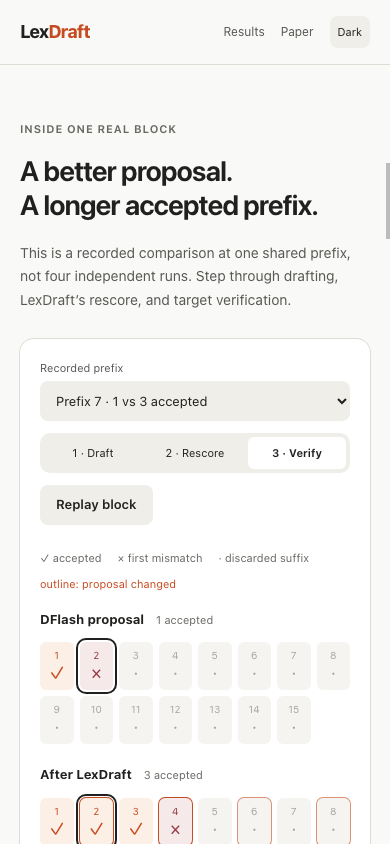
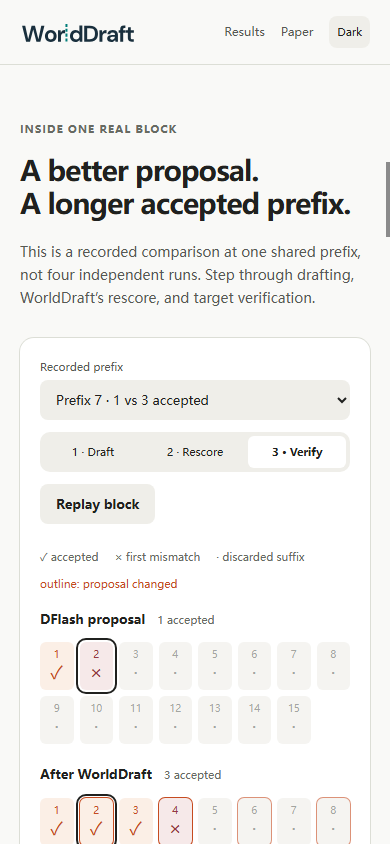
Publish the WorldDraft identity, project links and MIT license

diff --git a/index.html b/index.html
@@ -3,9 +3,9 @@
 <head>
   <meta charset="utf-8">
   <meta name="viewport" content="width=device-width, initial-scale=1">
-  <meta name="description" content="LexDraft uses a lightweight within-word prior to improve multilingual parallel drafting. Measured throughput gains, unchanged target verification, and real decoding traces.">
-  <title>LexDraft | Explore four systems, then inspect a real block.</title>
-  <link rel="icon" href="data:,">
+  <meta name="description" content="WorldDraft uses a lightweight within-word prior to improve multilingual parallel drafting. Measured throughput gains, unchanged target verification, and real decoding traces.">
+  <title>WorldDraft | Explore four systems, then inspect a real block.</title>
+  <link rel="icon" type="image/svg+xml" href="assets/brand/favicon.svg">
   <link rel="stylesheet" href="assets/tokens.css">
   <link rel="stylesheet" href="assets/style.css">
   <script src="assets/data.js" defer></script>
@@ -18,7 +18,7 @@
 <a class="skip" href="#main">Skip to content</a>
 <header class="topbar">
   <div class="wrap nav-row">
-    <a class="brand" href="#main" aria-label="LexDraft home">Lex<span>Draft</span><span class="brand-dot" aria-hidden="true"></span></a>
+    <a class="brand" href="#main" aria-label="WorldDraft home"><span class="brand-lockup" aria-hidden="true"></span></a>
     <nav aria-label="Main navigation">
       <a href="#demo">See it work</a>
       <a href="#results">Results</a>
@@ -29,8 +29,8 @@
 </header>
 <main id="main">
   <section class="wrap interactive-intro" aria-labelledby="hero-title">
-    <div><p class="eyebrow">LexDraft · interactive comparison</p><h1 id="hero-title">Same work.<br><span>Four ways to finish.</span></h1></div>
-    <div><p class="hero-description">See what LexDraft changes, before and after multilingual training. Start all four systems together. Then look inside an actual draft block.</p><a class="text-link" href="#block-demo">Why does it work? ↓</a></div>
+    <div><p class="eyebrow">WorldDraft · interactive comparison</p><h1 id="hero-title">Same work.<br><span>Four ways to finish.</span></h1></div>
+    <div><p class="hero-description">See what WorldDraft changes, before and after multilingual training. Start all four systems together. Then look inside an actual draft block.</p><a class="text-link" href="#block-demo">Why does it work? ↓</a></div>
   </section>
 
   <section class="wrap interactive-main" id="demo" aria-labelledby="race-title">
@@ -51,20 +51,20 @@
     <div class="checkpoints" aria-label="Jump to a finish moment">
       <span>Jump to:</span>
       <button class="button subtle" type="button" id="jump-combined">Combined finishes</button>
-      <button class="button subtle" type="button" id="jump-prior">Original + LexDraft finishes</button>
+      <button class="button subtle" type="button" id="jump-prior">Original + WorldDraft finishes</button>
       <button class="button subtle" type="button" id="jump-all">All finish</button>
     </div>
     <div class="race-scale"><span>Four systems, always visible</span><span>Share of equal work completed</span><span>Finish time</span></div>
     <div id="live-lanes" class="live-lanes"></div>
     <div class="live-insight" id="race-insight" role="status"></div>
     <div class="paired-impact" id="race-impact"></div>
-    <p class="caption lab-source">Each lane advances at its measured throughput ratio. Equal work is an abstract unit, not a generated answer. Paired percentages isolate LexDraft; combined performance includes multilingual training. Qwen3-8B · vLLM · L20.</p>
+    <p class="caption lab-source">Each lane advances at its measured throughput ratio. Equal work is an abstract unit, not a generated answer. Paired percentages isolate WorldDraft; combined performance includes multilingual training. Qwen3-8B · vLLM · L20.</p>
   </section>
 
   <section class="section wrap block-section" id="block-demo" aria-labelledby="block-title">
     <div class="section-heading">
       <div><p class="eyebrow">Inside one real block</p><h2 id="block-title">A better proposal.<br>A longer accepted prefix.</h2></div>
-      <p>This is a recorded comparison at one shared prefix, not four independent runs. Step through drafting, LexDraft’s rescore, and target verification.</p>
+      <p>This is a recorded comparison at one shared prefix, not four independent runs. Step through drafting, WorldDraft’s rescore, and target verification.</p>
     </div>
     <div class="block-lab">
       <div class="block-controls">
@@ -96,7 +96,7 @@
   <section class="section" id="trace-detail" aria-labelledby="demo-title">
     <div class="section-heading">
       <div><p class="eyebrow">The difference, up close</p><h2 id="demo-title">Finish the same answer.<br>In fewer rounds.</h2></div>
-      <p>One real Telugu request. Both runs produce the exact same 512 tokens. LexDraft finishes in 160 rounds instead of 170.</p>
+      <p>One real Telugu request. Both runs produce the exact same 512 tokens. WorldDraft finishes in 160 rounds instead of 170.</p>
     </div>
     <div class="trace-panel">
       <div class="trace-top">
@@ -111,11 +111,11 @@
             <p class="lane-foot"><span id="base-rounds">160 rounds used</span><span id="base-status">Still decoding</span></p>
           </div>
           <div class="trace-lane">
-            <div class="lane-label"><span><i class="swatch lex"></i>With LexDraft</span><strong id="lex-tokens">512 / 512 tokens</strong></div>
-            <div class="progress" id="lex-progress" role="progressbar" aria-label="LexDraft output progress" aria-valuemin="0" aria-valuemax="512" aria-valuenow="512"><div id="lex-fill" class="fill lex"></div></div>
+            <div class="lane-label"><span><i class="swatch lex"></i>With WorldDraft</span><strong id="lex-tokens">512 / 512 tokens</strong></div>
+            <div class="progress" id="lex-progress" role="progressbar" aria-label="WorldDraft output progress" aria-valuemin="0" aria-valuemax="512" aria-valuenow="512"><div id="lex-fill" class="fill lex"></div></div>
             <p class="lane-foot"><span id="lex-rounds">160 rounds used</span><span id="lex-status">Finished</span></p>
           </div>
-          <div class="trace-message" id="trace-message" role="status">LexDraft has finished. The original drafter still has 31 tokens to go.</div>
+          <div class="trace-message" id="trace-message" role="status">WorldDraft has finished. The original drafter still has 31 tokens to go.</div>
         </div>
         <div class="trace-overview">
           <h3>The complete run</h3>
@@ -134,7 +134,7 @@
       <div><p class="eyebrow">Why it works</p><h3>Let the model choose the words.<br>Help it finish their pieces.</h3></div>
       <div class="mechanism-copy">
         <p>Parallel drafting leaves later positions without the earlier draft pieces. That matters when a word spans many tokens.</p>
-        <p>LexDraft adds word-continuation counts to candidate scoring. It reranks and expands proposals within a word; the target still decides what gets accepted.</p>
+        <p>WorldDraft adds word-continuation counts to candidate scoring. It reranks and expands proposals within a word; the target still decides what gets accepted.</p>
         <details class="inline-details"><summary>Read the scoring rule</summary><div class="detail-content"><code>score(x) = log q(x) + λ · log P(x | word prefix)</code><p>A simplified view of the rule. Candidates include the drafter’s top 16 and the prior’s top 4 continuations. The full rule also scores word endings. Setting λ to zero restores the original drafter.</p><p>The replay above shows committed-token counts, not rejected proposals or pure-prior probabilities. No missing candidate trace is reconstructed.</p></div></details>
       </div>
     </div>
@@ -149,24 +149,24 @@
       </div>
       <details class="evidence static-summary"><summary>Selected four-system measurements</summary><div class="detail-content"><div class="hero-chart" aria-labelledby="comparison-title">
       <div class="chart-top">
-        <div><p class="eyebrow">Four systems. Two matched pairs.</p><h2 id="comparison-title">LexDraft helps both drafters.</h2></div>
+        <div><p class="eyebrow">Four systems. Two matched pairs.</p><h2 id="comparison-title">WorldDraft helps both drafters.</h2></div>
       </div>
-      <p class="comparison-key">Original DFlash uses no extra multilingual training.<br>Multilingual DFlash adds that training. Both are shown with and without LexDraft.</p>
+      <p class="comparison-key">Original DFlash uses no extra multilingual training.<br>Multilingual DFlash adds that training. Both are shown with and without WorldDraft.</p>
       <div id="hero-bars" class="featured-bars"></div>
       <p class="chart-caption">Throughput relative to original DFlash = 1.00× for each language. Fixed 0 to 2.5× scale.</p>
-      <p class="attribution-note">Paired percentages show the LexDraft increment on each drafter. The combined ratio includes both training and LexDraft.</p>
+      <p class="attribution-note">Paired percentages show the WorldDraft increment on each drafter. The combined ratio includes both training and WorldDraft.</p>
       <div class="chart-source"><span>Qwen3-8B · vLLM · NVIDIA L20 · concurrency 1</span><a href="#results">All 18 conditions ↗</a></div>
     </div></div></details>
       <div class="results-controls">
         <label>Concurrency<select id="concurrency"><option value="1">1 request</option><option value="8">8 requests</option><option value="32">32 requests</option></select></label>
         <p>Original DFlash = 1.00× for every condition<br><span class="muted">Greedy decoding · Qwen3-8B · L20</span></p>
       </div>
-      <p class="result-key">Fixed order: original DFlash, original + LexDraft, multilingual DFlash, multilingual + LexDraft. The gap within each pair isolates the prior’s contribution.</p>
+      <p class="result-key">Fixed order: original DFlash, original + WorldDraft, multilingual DFlash, multilingual + WorldDraft. The gap within each pair isolates the prior’s contribution.</p>
       <div id="results-bars" class="results-bars"></div>
-      <p class="caption">All ratios use the original DFlash at the same concurrency as denominator. The combined result includes training and LexDraft. Values are computed from exported, two-decimal speedups; small differences from paper percentages are rounding.</p>
+      <p class="caption">All ratios use the original DFlash at the same concurrency as denominator. The combined result includes training and WorldDraft. Values are computed from exported, two-decimal speedups; small differences from paper percentages are rounding.</p>
       <details class="evidence" id="engine-details">
         <summary><span>Inspect the full engine table</span><span class="summary-note">Training-only control, other baselines and prior increments</span></summary>
-        <div class="detail-content"><div class="table-scroll" tabindex="0" role="region" aria-label="Full engine results"><table id="engine-table"></table></div><p class="caption">All four systems are already shown above; this table adds other baselines and acceptance lengths. Speedups here are over plain target decoding, not original DFlash; mean committed tokens per round appear in parentheses. The last two columns isolate the LexDraft increment on each matched drafter.</p><a class="text-link" href="data/speed.json" download>Download engine data ↗</a></div>
+        <div class="detail-content"><div class="table-scroll" tabindex="0" role="region" aria-label="Full engine results"><table id="engine-table"></table></div><p class="caption">All four systems are already shown above; this table adds other baselines and acceptance lengths. Speedups here are over plain target decoding, not original DFlash; mean committed tokens per round appear in parentheses. The last two columns isolate the WorldDraft increment on each matched drafter.</p><a class="text-link" href="data/speed.json" download>Download engine data ↗</a></div>
       </details>
       <details class="evidence" id="loop-details">
         <summary><span>Inspect the second target family</span><span class="summary-note">Qwen and Llama speculative-loop results</span></summary>
@@ -190,7 +190,7 @@
       <summary><span>Where the evidence stops</span><span class="summary-note">Hardware, sampling and evaluation scope</span></summary>
       <div class="detail-content limits">
         <p><strong>Serving scope.</strong> Engine results use Qwen3-8B on a single NVIDIA L20. Llama evidence comes from replay and speculative-loop measurements, not the serving engine.</p>
-        <p><strong>Not a universal winner.</strong> Gains depend on language, drafter and concurrency. English changes little. At concurrency 32, the AR drafter leads the compared LexDraft variants in Telugu and Bengali.</p>
+        <p><strong>Not a universal winner.</strong> Gains depend on language, drafter and concurrency. English changes little. At concurrency 32, the AR drafter leads the compared WorldDraft variants in Telugu and Bengali.</p>
         <p><strong>Sampling and quality.</strong> The serving sweep is greedy. Sampling is evaluated using loop and target-NLL checks, not an engine sweep. Speed uses a 512-token cap; MGSM accuracy uses 2,048 tokens. <a href="data/quality.json" download>Quality data ↗</a></p>
         <p><strong>Prior coverage.</strong> Romanized Hindi has no matched prior text, so its prior is off. Word boundaries depend on the tokenizer and segmenter.</p>
       </div>
@@ -203,11 +203,11 @@
       <div class="paper-info">
         <p class="authors">Yuannuo Feng<sup>1</sup>, Wenshuai Yao<sup>2</sup>, Yizhe Chen<sup>1</sup>, Ngai Wong<sup>3</sup>, Wenyong Zhou<sup>3</sup>, Wang Kang<sup>1</sup></p>
         <p class="affiliations"><sup>1</sup> Beihang University<br><sup>2</sup> Peking University<br><sup>3</sup> The University of Hong Kong</p>
-        <p class="caption">Paper, code and count tables will be linked when publicly released. The author profile below is not a code repository.</p>
-        <a class="text-link" href="https://github.com/Kissmetothemoon" target="_blank" rel="noopener noreferrer">Author’s GitHub ↗</a>
+        <p class="caption">The code repository includes the within-word prior, benchmarking scripts and measured results.</p>
+        <a class="text-link" href="https://github.com/Kissmetothemoon/WorldDraft" target="_blank" rel="noopener noreferrer">Source code ↗</a>
       </div>
     </div>
-    <div class="wrap"><details class="evidence citation"><summary>Cite this work</summary><div class="detail-content"><div class="copy-row"><button type="button" class="button secondary" id="copy-bib">Copy BibTeX</button><span id="copy-status" role="status"></span></div><pre id="bib">@misc{lexdraft2026,
+    <div class="wrap"><details class="evidence citation"><summary>Cite this work</summary><div class="detail-content"><div class="copy-row"><button type="button" class="button secondary" id="copy-bib">Copy BibTeX</button><span id="copy-status" role="status"></span></div><pre id="bib">@misc{worlddraft2026,
   title = {What Slows Parallel Diffusion Drafters Across Languages?},
   author = {Feng, Yuannuo and Yao, Wenshuai and Chen, Yizhe and Wong, Ngai and Zhou, Wenyong and Kang, Wang},
   note = {Manuscript under review},
@@ -215,7 +215,7 @@
 }</pre></div></details></div>
   </section>
 </main>
-<footer class="wrap footer"><a class="brand" href="#main">Lex<span>Draft</span></a><p>Same target. Better proposals.</p><a href="#main">Back to top ↑</a></footer>
+<footer class="wrap footer"><a class="brand" href="#main" aria-label="WorldDraft home"><span class="brand-lockup" aria-hidden="true"></span></a><p>Same target. Better proposals.</p><a href="#main">Back to top ↑</a></footer>
 <noscript><div class="no-script">Interactive comparisons require JavaScript. Download the <a href="data/speed.json">engine data</a> or <a href="data/seqs.json">decoding trace</a> to inspect the results.</div></noscript>
 </body>
 </html>

diff --git a/assets/app.js b/assets/app.js
@@ -12,7 +12,7 @@
   const mode = window.matchMedia("(prefers-color-scheme: dark)");
   const reduced = window.matchMedia("(prefers-reduced-motion: reduce)");
   let userTheme = null;
-  try { userTheme = localStorage.getItem("lexdraft-theme"); } catch { /* Storage is optional. */ }
+  try { userTheme = localStorage.getItem("worlddraft-theme"); } catch { /* Storage is optional. */ }
   const setTheme = theme => {
     document.documentElement.dataset.theme = theme;
     $("#theme-toggle").textContent = theme === "dark" ? "Light" : "Dark";
@@ -22,15 +22,15 @@
   $("#theme-toggle").addEventListener("click", () => {
     userTheme = document.documentElement.dataset.theme === "dark" ? "light" : "dark";
     setTheme(userTheme);
-    try { localStorage.setItem("lexdraft-theme",userTheme); } catch { /* Keep session choice. */ }
+    try { localStorage.setItem("worlddraft-theme",userTheme); } catch { /* Keep session choice. */ }
   });
   mode.addEventListener("change", () => { if (!userTheme) setTheme(mode.matches ? "dark" : "light"); });
 
   const ARM_META = {
     dpub: {tone:"base",label:"Original DFlash",short:"Original DFlash"},
-    dpub_lex: {tone:"prior",label:"Original DFlash + LexDraft",short:"+ LexDraft"},
+    dpub_lex: {tone:"prior",label:"Original DFlash + WorldDraft",short:"+ WorldDraft"},
     dml: {tone:"trained",label:"Multilingual-trained DFlash",short:"Multilingual DFlash"},
-    dml_lex: {tone:"combined",label:"Multilingual-trained DFlash + LexDraft",short:"+ LexDraft"}
+    dml_lex: {tone:"combined",label:"Multilingual-trained DFlash + WorldDraft",short:"+ WorldDraft"}
   };
   // Four simultaneous arms; every denominator is public DFlash, never dml.
   function fourBars(row) {
@@ -88,7 +88,7 @@
   let cursor, baseDot, lexDot;
   function drawTraceChart() {
     const chart = svg("svg",{viewBox:"0 0 390 226",role:"img","aria-labelledby":"trace-svg-title"});
-    chart.append(svg("title",{id:"trace-svg-title"},"Cumulative token progress: drafter 170 rounds, LexDraft 160 rounds. Both finish at 512 tokens."));
+    chart.append(svg("title",{id:"trace-svg-title"},"Cumulative token progress: drafter 170 rounds, WorldDraft 160 rounds. Both finish at 512 tokens."));
     for (const tokens of [0,256,512]) {
       chart.append(svg("line",{x1:38,x2:362,y1:chartY(tokens),y2:chartY(tokens),class:"svg-grid"}));
       chart.append(svg("text",{x:30,y:chartY(tokens)+4,"text-anchor":"end",class:"svg-label"},String(tokens)));
@@ -121,13 +121,13 @@
     $("#round-output").textContent=round;
     $("#next-round").disabled=round>=lastRound;
     let message;
-    if (state.base.done && state.lex.done) message="Same 512-token answer. LexDraft used 160 rounds; the original drafter used 170.";
-    else if (state.lex.done) message="LexDraft has finished. The original drafter still has "+(goal-state.base.tokens)+" tokens to go.";
+    if (state.base.done && state.lex.done) message="Same 512-token answer. WorldDraft used 160 rounds; the original drafter used 170.";
+    else if (state.lex.done) message="WorldDraft has finished. The original drafter still has "+(goal-state.base.tokens)+" tokens to go.";
     else if (round===0) message="Same request, same target. Step through the measured decoding rounds.";
     else if (state.base.tokens===state.lex.tokens) message="Both runs have committed "+state.base.tokens+" tokens so far. The full-run outcome remains visible above.";
     else {
       const delta=state.lex.tokens-state.base.tokens;
-      message=delta>0 ? "After "+round+" rounds, LexDraft has committed "+delta+" more tokens." : "At this round the original drafter is ahead by "+Math.abs(delta)+" tokens. Local leads can change.";
+      message=delta>0 ? "After "+round+" rounds, WorldDraft has committed "+delta+" more tokens." : "At this round the original drafter is ahead by "+Math.abs(delta)+" tokens. Local leads can change.";
     }
     $("#trace-message").textContent=message;
     cursor.setAttribute("x1",chartX(round)); cursor.setAttribute("x2",chartX(round));
@@ -186,7 +186,7 @@
   }
   function renderEngine() {
     const table=$("#engine-table");
-    const body=tableHead(table,"Concurrency "+concurrency+" · speedup (mean committed tokens per round)",["Language","Target tok/s","AR drafter","EAGLE-3","Original DFlash","DFlash + LexDraft","ML training only","ML + LexDraft","Prior on original","Prior on ML"]);
+    const body=tableHead(table,"Concurrency "+concurrency+" · speedup (mean committed tokens per round)",["Language","Target tok/s","AR drafter","EAGLE-3","Original DFlash","DFlash + WorldDraft","ML training only","ML + WorldDraft","Prior on original","Prior on ML"]);
     for(const row of D.speed.speed[concurrency]){
       const tr=el("tr");tr.append(el("td","",names[row.lang]),el("td","",String(row.ar_tok_s)));
       for(const key of ["ar_draft","eagle3","dpub","dpub_lex","dml","dml_lex"]){
@@ -198,7 +198,7 @@
     }
   }
   function renderLoop() {
-    const body=tableHead($("#loop-table"),"Matched speculative loop · public DFlash = 1.00",["Task","Language","Target","Public + LexDraft","Multilingual","Multilingual + LexDraft"]);
+    const body=tableHead($("#loop-table"),"Matched speculative loop · public DFlash = 1.00",["Task","Language","Target","Public + WorldDraft","Multilingual","Multilingual + WorldDraft"]);
     for(const row of D.main) for(const target of ["qwen","llama"]){
       const tr=el("tr");tr.append(el("td","",row.task),el("td","",names[row.lang]),el("td","",target==="qwen"?"Qwen3-8B":"Llama-3.1-8B"));
       for(const key of ["pub","ml","mllex"]){const v=row[target][key];tr.append(el("td","",v.v.toFixed(2)+" ± "+v.ci.toFixed(2)));}

diff --git a/assets/interactive.js b/assets/interactive.js
@@ -6,9 +6,9 @@
   const names={en:"English",de:"German",fr:"French",es:"Spanish",ru:"Russian",zh:"Chinese",ja:"Japanese",ko:"Korean",ar:"Arabic",th:"Thai",sw:"Swahili",hi:"Hindi",bn:"Bengali",te:"Telugu",am:"Amharic","sr-Cyrl":"Serbian (Cyrillic)","sr-Latn":"Serbian (Latin)","hi-Latn":"Hindi (Latin)"};
   const meta={
     dpub:{name:"Original DFlash",note:"No extra multilingual training",tone:"base"},
-    dpub_lex:{name:"Original DFlash + LexDraft",note:"Same drafter, add the prior",tone:"prior"},
+    dpub_lex:{name:"Original DFlash + WorldDraft",note:"Same drafter, add the prior",tone:"prior"},
     dml:{name:"Multilingual DFlash",note:"Multilingual training only",tone:"trained"},
-    dml_lex:{name:"Multilingual DFlash + LexDraft",note:"Multilingual training + prior",tone:"combined"}
+    dml_lex:{name:"Multilingual DFlash + WorldDraft",note:"Multilingual training + prior",tone:"combined"}
   };
   const reduced=matchMedia("(prefers-reduced-motion: reduce)");
   let lang="te",concurrency="1",row,time=0,frame=null,startAt=0,startTime=0;
@@ -68,7 +68,7 @@
       laneNodes[arm.key]={root,fill,progress,percent,state,tiles};
     });
     const impact=$("#race-impact");impact.replaceChildren();
-    for(const [title,value] of [["LexDraft on original",M.formatGain(row.priorGain)],["LexDraft on multilingual",M.formatGain(row.priorOnMultilingualGain)],["Combined vs original",row.arms[3].ratio.toFixed(2)+"×"]]){
+    for(const [title,value] of [["WorldDraft on original",M.formatGain(row.priorGain)],["WorldDraft on multilingual",M.formatGain(row.priorOnMultilingualGain)],["Combined vs original",row.arms[3].ratio.toFixed(2)+"×"]]){
       const box=node("p");box.append(node("span","",title),node("strong","",value));impact.append(box);
     }
     renderTime(100/row.arms[3].ratio);
@@ -109,14 +109,14 @@
     const r=B.rounds[blockIndex],host=$("#piece-inspector");host.replaceChildren();
     host.append(node("strong","","Position "+(selected+1)));
     host.append(node("span","","DFlash: "+tokenName(r,r.plain_pick[selected])));
-    host.append(node("span","","After LexDraft: "+tokenName(r,r.lex_pick[selected])));
+    host.append(node("span","","After WorldDraft: "+tokenName(r,r.lex_pick[selected])));
     const changed=r.plain_pick[selected]!==r.lex_pick[selected];
-    host.append(node("span","",changed?"LexDraft changed this proposal.":"Both propose the same token here."));
+    host.append(node("span","",changed?"WorldDraft changed this proposal.":"Both propose the same token here."));
   }
   function renderBlock(){
     const r=B.rounds[blockIndex],snapshot=M.blockSnapshot(r,phase),host=$("#block-rows");host.replaceChildren();
     for(const button of document.querySelectorAll(".block-steps button"))button.setAttribute("aria-pressed",String(Number(button.dataset.phase)===phase));
-    for(const [key,title,accepted] of [["plain","DFlash proposal",r.accepted_plain],["lex","After LexDraft",r.accepted_lex]]){
+    for(const [key,title,accepted] of [["plain","DFlash proposal",r.accepted_plain],["lex","After WorldDraft",r.accepted_lex]]){
       const line=node("div","block-row "+key);
       const label=node("div","block-row-label");label.append(node("strong","",title),node("span","",phase===2?accepted+" accepted":phase===0?"Neural proposals":"Before target verification"));
       const pieces=node("div","block-pieces");
@@ -132,11 +132,11 @@
       line.append(label,pieces);host.append(line);
     }
     let message;
-    if(phase===0)message="One neural pass proposes every position. The second row is the same proposal before LexDraft is applied.";
+    if(phase===0)message="One neural pass proposes every position. The second row is the same proposal before WorldDraft is applied.";
     else if(phase===1)message="The prior changes "+snapshot.lex.filter(p=>p.changed).length+" proposals at this prefix. An outline marks a changed candidate; target acceptance is not shown yet.";
     else {
       const delta=r.accepted_lex-r.accepted_plain;
-      message=delta>0?"The first mismatch moves later: "+r.accepted_plain+" accepted without LexDraft, "+r.accepted_lex+" with it. "+delta+" extra draft tokens survive this check.":delta===0?"Both accept "+r.accepted_plain+" draft tokens at this prefix. Changing candidates does not guarantee a gain every round.":"This recorded prefix accepts fewer proposals with LexDraft. Local results are not forced to improve.";
+      message=delta>0?"The first mismatch moves later: "+r.accepted_plain+" accepted without WorldDraft, "+r.accepted_lex+" with it. "+delta+" extra draft tokens survive this check.":delta===0?"Both accept "+r.accepted_plain+" draft tokens at this prefix. Changing candidates does not guarantee a gain every round.":"This recorded prefix accepts fewer proposals with WorldDraft. Local results are not forced to improve.";
     }
     $("#block-verdict").textContent=message;renderInspector();
   }

diff --git a/assets/style.css b/assets/style.css
@@ -18,7 +18,9 @@ h1, h2, h3 { line-height: 1.15; }
 .topbar { background: var(--page); position: sticky; top: 0; z-index: 10; border-bottom: 1px solid var(--border); }
 .nav-row { display: flex; align-items: center; height: 72px; gap: 32px; }
 .brand { display: inline-flex; align-items: center; text-decoration: none; font-size: 20px; font-weight: 750; letter-spacing: var(--tracking-title); white-space: nowrap; }
-.brand > span:first-child { color: var(--brand); }
+.brand-lockup { display: block; width: 150px; height: 33px; background: url("brand/worlddraft.svg") left center / contain no-repeat; }
+[data-theme="dark"] .brand-lockup { background-image: url("brand/worlddraft-dark.svg"); }
+@media (max-width: 480px) { .brand-lockup { width: 116px; height: 26px; } }
 .brand-dot { width: 6px; height: 6px; border-radius: 50%; background: var(--brand-fill); margin-left: 6px; align-self: flex-start; margin-top: 8px; }
 nav { display: flex; align-items: center; gap: 32px; margin-left: auto; }
 nav a { text-decoration: none; font-size: 13px; color: var(--secondary); }

diff --git a/assets/tokens.css b/assets/tokens.css
@@ -1,4 +1,4 @@
-/* Existing LexDraft identity, consolidated into semantic tokens. */
+/* Existing WorldDraft identity, consolidated into semantic tokens. */
 :root {
   color-scheme: light;
   --page: #f9f9f7;

diff --git a/README.md b/README.md
@@ -1,25 +1,11 @@
-# LexDraft interactive exhibit v3
+<picture>
+  <source media="(prefers-color-scheme: dark)" srcset="assets/brand/worlddraft-dark.svg">
+  <img src="assets/brand/worlddraft.svg" alt="WorldDraft" width="340">
+</picture>
 
-## Preview
+[Project page](https://kissmetothemoon.github.io/worlddraft-page/) · [Source code](https://github.com/Kissmetothemoon/WorldDraft)
 
-Open index.html offline, or serve this directory with python3 -m http.server 8000 --bind 127.0.0.1.
-Main exhibit: index.html#demo. Actual proposal inspector: index.html#block-demo.
-This independent session artifact does not modify the original site or prior v1/v2 artifacts. Save the ZIP before the session ends.
-
-## What changed
-
-The interactive exhibit is now the main page content, not a static results chart followed by the old two-lane replay.
-
-1. Four simultaneous lanes in the author-requested order: original DFlash, original + LexDraft, multilingual-trained DFlash, multilingual-trained + LexDraft.
-2. Shared normalized time slider, play/pause, reset, clickable finish times, three finish checkpoints.
-3. All 18 language/script conditions and three concurrency settings can be selected.
-4. Recorded block inspector with Draft / Rescore / Verify phases, actual before/after token candidates, and target-verified accepted-prefix lengths.
-5. Eight recorded prefixes selectable, including ties. Prefix 7 defaults to the informative 1-versus-3 accepted-token example.
-6. Static four-system summary and complete two-run trace moved to disclosures.
-7. Reduced-motion preference disables both timed animations; manual controls remain operational.
-8. Controls placed before the four lanes so phone users can start and scrub without scrolling past the entire exhibit.
-
-## Evidence boundary: read before interpreting
+Compare measured throughput across 18 language and script conditions and inspect eight recorded draft blocks. Open `index.html` directly or serve this directory with a static HTTP server.
 
 ### Four-lane exhibit
 
@@ -33,7 +19,7 @@ This is an equal-work illustration driven by measured aggregate throughput. It i
 - The small tiles are abstract work subdivisions, not tokens.
 - Default Telugu c=1 combined finish is 41.2: the four progress levels are 41.2%, 61.8%, 85.5%, 100%.
 - Throughput and individual-request latency are not equated, especially under concurrency.
-- LexDraft is not forced to win: English c=1 multilingual-only finishes before multilingual + LexDraft.
+- WorldDraft is not forced to win: English c=1 multilingual-only finishes before multilingual + WorldDraft.
 
 ### Actual block inspector
 
@@ -51,7 +37,7 @@ The inspector uses real picks and recorded acceptance counts. It does not stitch
 
 ### Other evidence
 
-All seven JSON exports are unchanged copies of the original site. assets/data.js and assets/block-data.js embed data for offline rendering. Study-reported 2,106 identical paired outputs and 0.13ms overhead are inherited, not remeasured. Percentages derive from existing rounded speedup exports. Paper/code links remain pending; no links or experiments fabricated.
+All seven JSON exports are unchanged copies of the original site. assets/data.js and assets/block-data.js embed data for offline rendering. Study-reported 2,106 identical paired outputs and 0.13ms overhead are inherited, not remeasured. Percentages derive from existing rounded speedup exports. The source code is linked from the project page.
 
 ## Test commands
 
@@ -61,8 +47,9 @@ node --experimental-websocket tests/browser.mjs
 
 25 unit tests and 26 browser validation groups pass. Browser tests exercise all 54 race settings, 216 lane progress/finish values, all eight recorded prefixes, actual pointer and keyboard input, pause/reset, checkpoints, reduced motion, light/dark, 320/390/768/1024/1440 widths, contained mobile tables, HTTP/network/console health, and file:// opening.
 
-Verification logs and screenshots are in verification/. tests/browser.mjs uses local macOS Google Chrome plus Node 20 experimental WebSocket; no npm installation. It removes its own temporary profile when done.
+Verification logs and screenshots are in verification/. tests/browser.mjs uses Chrome or Edge (set CHROME_BIN) plus Node 20 experimental WebSocket; no npm installation. It removes its own temporary profile when done.
 
-## Remaining limits
 
-A scientifically faithful four-run token-by-token replay requires four matched full traces with checkpoint IDs, prompts, decoding settings, proposals/target decisions and timing. Those are not present in the supplied website exports. This version does not fill that gap with fabricated model output.
+## License
+
+The original website code is MIT-licensed. Third-party assets and data retain their respective licenses and terms.

diff --git a/verification/REVIEW.md b/verification/REVIEW.md
@@ -41,7 +41,7 @@ verification/unit.log：25 tests / 25 pass / 0 fail。
 verification/browser.log：26 组验收，关键项目：
 - 第 4 行：播放控件在四条 lane 前，time=100 刻度实际位于 100/110。
 - 第 5 行：同步播放、暂停、复位及完成节点。
-- 第 6 行：54 个设置、216 个 progress/finish 值；English 不强制 LexDraft 获胜。
+- 第 6 行：54 个设置、216 个 progress/finish 值；English 不强制 WorldDraft 获胜。
 - 第 7 行：8 组真实 prefix 和三个阶段、点击候选位置。
 - 第 8 行：减少动态效果不自动播放。
 - 第 15-19 行：五种宽度无页面水平溢出。
